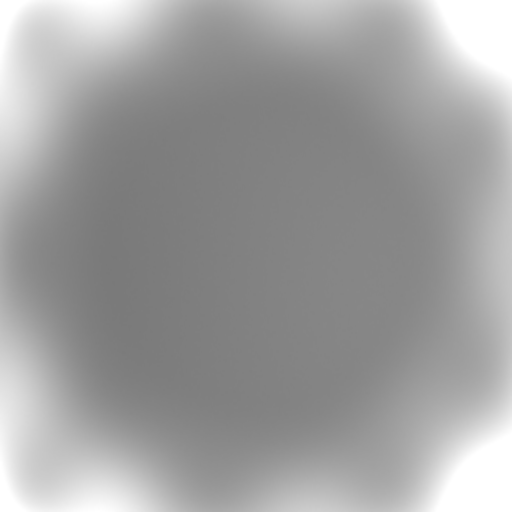
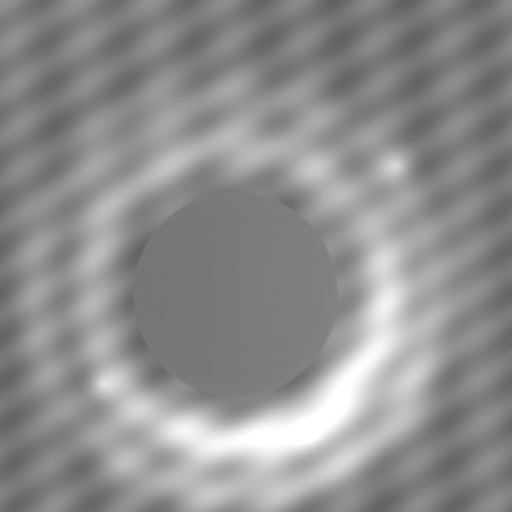
art(planet): stronger crater-rim DEM so After-like relief reads
Raise Easy HeightAmplitude and reshape the stand-in heightmap for a clear basin rim while keeping the landing pad flat.

diff --git a/Assets/Art/Planets/Easy/SOURCES.md b/Assets/Art/Planets/Easy/SOURCES.md
@@ -1,8 +1,6 @@
 # Easy planet surface sources
 
-- **Heightmap.png**: Temporary plains-leaning stand-in (large mid-gray flats, soft edge ridges) until replaced with a public-domain NASA/USGS Mars DEM crop.
-- **Albedo.jpg**: Temporary dusty ochre procedural stand-in matching the After reference look; replace with NASA Mars surface imagery when available.
+- **Heightmap.png**: Stand-in DEM — flat central basin + strong crater-rim ridges (After-reference silhouette). Replace with NASA/USGS Mars DEM crop when available.
+- **Albedo.jpg**: Stand-in dusty/rocky Mars albedo. Replace with NASA surface imagery when available.
 
 Target look: `Assets/Art/References/PlanetSurface/planet-before-after-dem.jpg` (After).
-
-When replacing with real data, record download URLs and retrieval date here.
